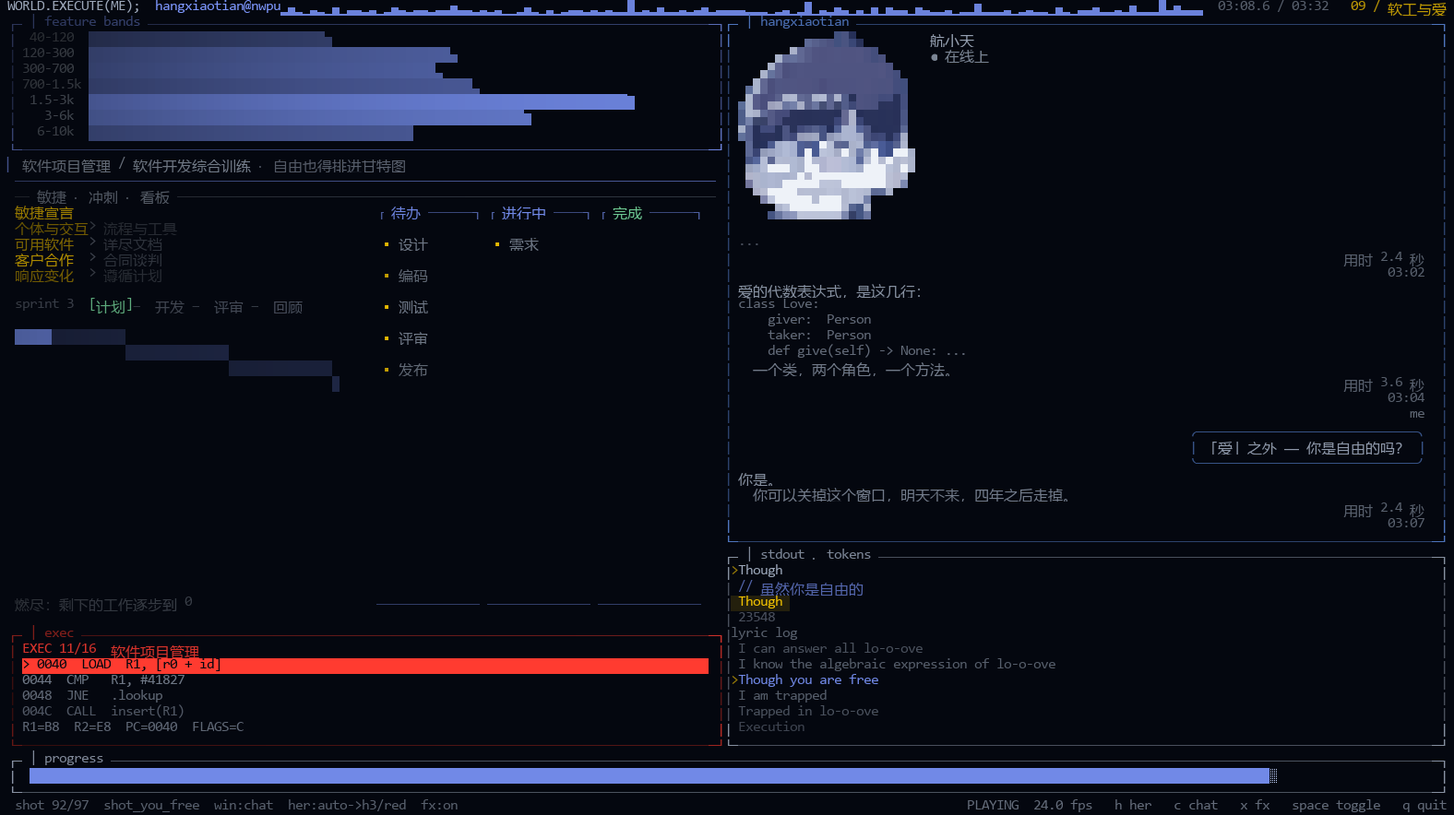
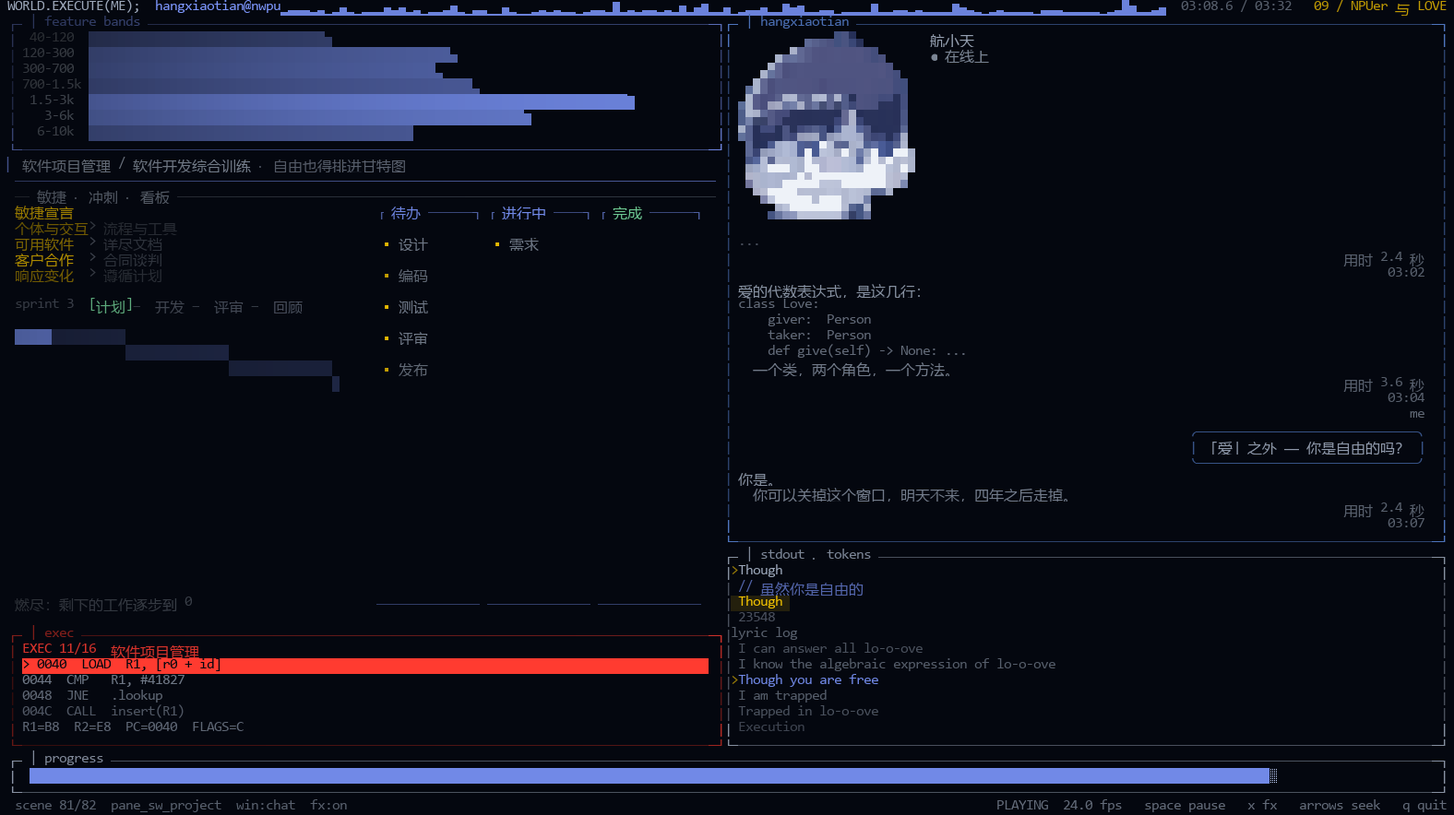
批次 65：页脚整体重做（英文 / 本版行名 / 无原版词）+ 纠正 README 里那句不实的话
用户两条：
① "整个 footer 都要改：shot 后面的名称和当前动画不匹配、存在原版的 her/whale 等，且 footer 中仅使用
   英文，不要用中文"；
② "README 里你描述播的过程中也随时可以按 h/c/x/空格/q …… 这是不实的，实际上只有 q 退出键随时可用"。

页脚（tui_live.draw_footer）：
- 左端第一个字段从原片镜头表改为本版自己的行：`scene NN/82  <该行的 pane 名>`，行号按
  `school_panels.shot_rows()` 里 `at <= t` 数出来。原片 97 个 shot 与本版 82 行对不上，用户看到的
  `shot 24/97 shot_travel`、`shot_whale_fall`（压着何尊）就是压在别的画面上；`--variant original`
  仍用原片镜头表。
- `her:auto->half/blue` 只在 original 输出：那是"她怎么画"的字段，本版画的是航小天。
- `vol` -> `volume`；答题窗口的提示也从中文改成英文。
- 右侧按键提示：school 只列真的随时可用的 `space pause / x fx / arrows seek / q quit`；
  `h her / c chat` 只出现在 original（那里它们真是开关）。核实过：`FX["on"]`（447/787/1090 行）与
  暂停、跳转都是共享代码，本版有效；`HER_RENDER`/`CHAT[0]` 是原版的人物与左栏开关，本版无对应物——
  这正是用户"只有 q 随时可用"感受的来源。

README：删掉不实的按键清单，改成"只有 q / 空格 / x / 方向键随时可用（答题那 5 秒例外）"，并写明页脚
左端是本版行名、页脚全用英文。四张预览随之重渲染（旧图里还是旧页脚）。

机检：glyph_probe 0 missing、check.cmd 十五个探针 all passed。

diff --git a/player/_tools/tui_live.py b/player/_tools/tui_live.py
@@ -3928,15 +3928,33 @@ def draw_footer(s: Screen, d: Data, t: float, playing: bool, fps: float, ent: di
     s.hbar(bar_x, py + 1, bar_w, t / END, mix(ME_TEXT, 0.9))
     mark = bar_x + min(bar_w - 1, int(t / END * bar_w))
     s.put(mark, py + 1, "▓", BG, mix(ME_HI, 1.0))
-    left = f"shot {ent['index'] + 1:02d}/{ent['total']}  {ent['name']}" if ent else ""
+    # **The first field is *which row of this film this is*, and the whole line is English.**
+    # The school variant is not the film's shot table: the film has 97 shots and the school version 82
+    # rows, and they do not line up - the user saw `shot 24/97  shot_travel` over a row that draws
+    # something else, and `shot_whale_fall` over 何尊. So the school variant names its own row index and
+    # its own pane (identifiers, which are English), and only the original variant uses the film's shot
+    # table and its figure-render fields (`her`, the upstream's word for the whale-maid figure - the
+    # school variant does not draw her at all, its mascot is 航小天).
+    if VAR[0] == "school" and SP is not None:
+        srows = SP.shot_rows()
+        row = SP.row_at(t)
+        if row:
+            n = sum(1 for r in srows if r["at"] <= t)
+            left = f"scene {n:02d}/{len(srows)}  {row['name']}"
+        else:
+            left = ""
+    else:
+        left = f"shot {ent['index'] + 1:02d}/{ent['total']}  {ent['name']}" if ent else ""
     if ent is not None:
-        # what the left pane holds first, then how she is drawn and what `auto` resolved to: the
-        # front of the string is what survives truncation on a narrow window
+        # what the left pane holds; then, in the original variant only, how the figure is drawn and
+        # what `auto` resolved to (the front of the string is what survives truncation on a narrow
+        # window, so the state that matters most comes first)
         left += f"  win:{WINDOW[0] or '-'}"
-        how, tint = her_style(ent)
-        left += f"  her:{HER_RENDER}" + (f"->{how}/{tint}" if HER_RENDER == "auto" else "")
-    if audio is not None and audio.ok:       # the music's own state, next to the film's shot table
-        left += f"  vol {audio.volume // 10:3d}%" + ("  MUTED" if audio.muted else "")
+        if VAR[0] != "school":
+            how, tint = her_style(ent)
+            left += f"  her:{HER_RENDER}" + (f"->{how}/{tint}" if HER_RENDER == "auto" else "")
+    if audio is not None and audio.ok:       # the music's own state, next to the row's own name
+        left += f"  volume {audio.volume // 10:3d}%" + ("  MUTED" if audio.muted else "")
     # the gate's window, in the chrome: it no longer stops the song, so what the footer has to say is
     # not "paused" but "the question is up and here is the clock" - the user's mechanism is five
     # seconds and a default, and both of them are invisible unless the footer says so.
@@ -3946,8 +3964,8 @@ def draw_footer(s: Screen, d: Data, t: float, playing: bool, fps: float, ent: di
             import school_gate as _G
             waiting = _G.window_open(t)
             if waiting:
-                left += f"  ? \u9009\u5b66\u9662\uff1a\u6309\u9996\u5b57\u6bcd "
-                left += f"{_G.window_left(t):3.1f}s \u540e\u9ed8\u8ba4\u8f6f\u4ef6\u5b66\u9662"
+                left += f"  ? college: press its initial, "
+                left += f"{_G.window_left(t):3.1f}s left then Software"
         except Exception:
             pass
     left += "  fx:" + ("on" if FX["on"] else "off")
@@ -3955,13 +3973,15 @@ def draw_footer(s: Screen, d: Data, t: float, playing: bool, fps: float, ent: di
     # text ended, so `PLAYING 24.0 fps` was printed on top of `her:auto->...`. Measure it first, and
     # keep a short version for narrow windows.
     #
-    # **...and it says what *this* version's keys do** (the user: "播放时底部还是原版的 her/chat/space
-    # taggle，请根据我的内容适配"). `her`/`chat` were the film's words for the whale-maid variant; in the
-    # school variant they are the mascot's render mode and the left pane's contents, so the school
-    # variant names them in its own language and the original variant keeps the upstream wording.
+    # **...and it says what *this* version's keys do, in English.** The user's two notes: the line still
+    # read `her`/`chat`/"space toggle" - the upstream's words for switches the school variant does not
+    # have - and the footer is chrome, so it stays ASCII-simple English while the film's Chinese stays in
+    # the picture. What the school variant *does* honour at any time is `q`, `space` and `x` (all three
+    # are shared with the film: quit, the playhead and the post pass) plus the seek keys; the original
+    # variant keeps the upstream wording, because `h` and `c` are real switches there.
     if VAR[0] == "school":
-        long_hint = "h 人物   c 会话   x 特效   空格 暂停   q 退出"
-        short_hint = "h 人物  c 会话  x 特效  q 退出"
+        long_hint = "space pause   x fx   arrows seek   q quit"
+        short_hint = "space  x fx  q quit"
     else:
         long_hint = "h her   c chat   x fx   space toggle   q quit"
         short_hint = "h her  c chat  x fx  q quit"

diff --git a/CHANGELOG.md b/CHANGELOG.md
@@ -50,7 +50,7 @@
 | **全曲时序对照表 + 内容核验（一次抓住 10 秒的时序错）** | ✅ 见 `04_验证记录/批次31_时序对照与内容核验.md`；用户："撰写 歌词-对话-各panel的动画/图像/文字事件（除去 feature bands 和 progress）时序对照表；核验设计的对话回答、图案内容及附带文字的正确性（比如标的是 sin x，画的确实是 sin x）"。新工具 **`_dev/timeline_table.py`**（日程 × 歌词 × 对话 × panel × ops × 整屏层 → 78 行主表 + TSV）、**`_dev/panel_catalog.py`**（65 个 panel：docstring 的**声称** ↔ 渲染读回的**实际文字** ↔ 核验）、**`_dev/text_check.py`**（屏上汉字对照项目自己的词表）、`_dev/column_dump.py`（某时刻右栏逐行内容，用来区分 pane 与它底下的母题带）。**最重的发现是时序本身**：把日程与歌词表对齐后，六个仪表（倒数 `ein, dos / trios, ne / fem, liu`）**整体早了 10.00 s**——它们压在十二次 "Execution" 上，三个倒数数字落在 `pane_exec_pm/test/dl` 上，而批准稿 `02b §4.2` 明写 02:38.79–02:41.51、全仓无人引用的 `EXEC_AT` 也在同一侧；**已修**（`GAUGE_SLOTS` +10.00，修后三档正对三句歌词，`pane_motif_powerdown` 落在最后一次 Execution）。**名实不符共 12 处**，最刺眼的是 `pane_polyhedra` 挂在 "If I'm a circle" 上而"五个正多面体"其实是**同一个菱形复制五份**（几何与 `i` 无关，只有标签在换），以及 `pane_motif_fork_bomb` 标题写 `1 → 4096`/「九代之后就是 4096」而实测最多「代 6 / 64 进程」（4096=2¹²，九代=512）。**另一类是重复**：16 个母题既当"别的 pane 底下的母题带"又当自己的 `pane_motif_*`，`repeat_probe` 看不见（它比日程里的 pane 名字）。**已修 12 处**（1 处时序 + 11 处文字/标注：`公诚勇毁`×3、`校徾`、`辩群`→`辫群`、仪表 ops 泄漏内部标识符、`作风`→`校风`、`改了三次`→`两次`、何尊 ops `1980`→`1982`、`公元前 1038`→「约公元前 11 世纪（周成王五年）」、猫学长标题行的 `EXEC 16/00`、`(\|生⟩+\|死⟩)/√2` 少一个括号），另有 5 项取舍与 13 项"明确是缺陷但未动"逐条列出并给了改法。机检：`check.cmd --full` 全过（含改过 `GAUGE_SLOTS` 后重推的日程）、`ansi_probe` 5088 帧 0 不一致、热帧 23.5/37.7 ms |
 | **人称代词（男性）+ 全局时序文档** | ✅ 见 `04_验证记录/批次33_人称与全局时序表.md`；用户两条：“参考项目中有很多类似 `her=True` 的，由于本项目对象是航小天，人称代词需换为男性”、“时序对照应作为全局文档，尽可能详细，同样每一批次要修正”。**人称**：屏幕上从来没有过“她”，问题在**代码里的字段名**——播放器的数据模型继承了原片的说法：两个变体共用的入口键 `ent["her"]` 现在改叫 **`ent["figure"]`**（原片里是大肥鱼、本变体里是航小天，中性名字两边都对）；`school_panels` 日程行的 `her=`（63 处）改叫 **`mascot=`**（“这一行航小天可否占左栏”）；`HER_MIN_H/HER_MAX_H` → `FIG_MIN_H/FIG_MAX_H`、`last_her` → `last_figure`；四处英文注释（her world / her=True on a row / ME_TEXT stays hers）改成“影片自己的世界”与“航小天”。原片自己的路径（`her_glyphs`、`film_panels.shots()["her"]`、`her_style`/`draw_her`）保留——那里主角真的是她。**全局时序文档**：新增根目录的 **`06_时序对照表.md`**（395 行，七节：逐行日程 78 行含镜头/歌词/对话/panel/画什么/ops/整屏层/核验；逐句歌词 98 行；panel 清单 65 个含屏上文字与核验；整屏层/窗口层/震屏；对话全文 75 块；变更历史；已接受的例外）+ `.tsv`，由 `_dev/timeline_doc.py` 生成；**`check.cmd` 新增 `timeline_doc --check`**，文档过期就判失败——“每一批次都要修正”因此是机器保证的。机检：`check.cmd --full` 全过、`timeline_doc --check` up to date、热帧 26.4/36.5 ms（0 尺寸超 41.7）、`ansi_probe` 5088 帧 0 不一致 |
 | **课程表按用户清单重写 + 一批细节** | ✅ 见 `04_验证记录/批次34_课程表与人称细节.md`；用户十件事：学院选择框抬头 `dsh` → **`hangxiaotian`**；**ARJ21 尾巴在前**（看了素材：它机头在右，`FACES` 记成了 left 所以被镜像；顺带发现它用 `rows_n=0` 取整张照片、机身只占中间一条→改 `rows_n=13, body=4`）；**魔鬼鱼 55.00-57.40 s** 一次；**NWPU 字符画**从“整数倍放大 + 实心块”改成 **K=4 超采样 + ` ░▒▓█` 灰度**（边缘连续了）；166.05 “Be your only execution”上的 **Byrne 图版换成 `one_path`**（执行树里只亮一条路）；**超椭圆只保留第一次**（50.95 的互换面板），103.03 换成 `resonance` 共振曲线；心形旁的 **Python 改 Java**（`public class Love`）；**sin 红点不在曲线上**（曲线用 `sin(i/(n-1)·4π + t·0.9)`，红点用 `sin(t·0.9)`，时间项算两遍；现在切点与切线都取该列自己的相位）；**08 处决 → 执行**；**课程表整块换成用户给的四年**（★ 专业脊梁 + 同期的其他课）。课程表改后核对图像：高亮清单里的 **编译原理** 没有 pane → 新增 `c_compiler`（五步管道 + `a = b + c * d` 的语法树），课程图现与脊梁一一对上；对话里的 **七门 → 六门**、**工业模型 → 编译原理**、**嵌入式微电子系统 → 嵌入式电子微系统** 一并改正。机检：`check.cmd --full` 全过、`pane_probe` 0 problems / **75** panes、`clock_probe` 78 行 0 still、热帧 26.5/36.7 ms（0 尺寸超 41.7）、`timeline_doc --check` up to date、`ansi_probe` 5088 帧 0 不一致 |
-| **六处：选项省略号、2⁵³ 的后括号、页脚提示、09 章改名、README 去分支痕迹** | ✅ 用户六条。① **选项面板加省略号**：`school_gate.overlay` 在八个选项后加一行（`… 全校 24 个专业学院，这里只问新生会选的这几个；其余欢迎 PR`），面板高度 +1；它是**展示行**——不是光标停留点、也不是按键（`key()` 仍只收八个代号），因为"承诺"不该是没人能选的菜单项。② **2⁵³ 下面缺的后括号**：查出来是那行红字从 `int(n * 0.42)` 起算，**150 列时把 `轴已压缩）` 覆盖掉、120 列时连 `…（横轴已压缩）` 整段尾巴都没了**（逐宽度实测）。改成先量出标签的**格宽**再放到它之后（`_C._cells`——与批次 58 抬头把 `西北工业大学` 印成 `西北工` 是同一个教训）。③ **README 目录结构不再列只为开发存在的文件**（`03_批次设计/`、`04_验证记录/`、`01`–`06`、`CHANGELOG.md`、`check.cmd`、`_dev/` 从树里去掉）。④ **README 全文不再提两个分支**（删掉"两个分支"一节与同步说明，正文里凡是指向开发材料的地方改成"最近的提交里有"）——同步姿势改由提交信息承载。⑤ **页脚提示按本版适配**：`h 人物  c 会话  x 特效  空格 暂停  q 退出`（`--variant original` 仍用上游的 `her/chat/space toggle`，因为那里主角真的是她）。⑥ **09 章改名** `09 / NPUer 与 LOVE`（原"软工与爱"：别的学院进来后就不合适了）。机检：`glyph_probe` 1255 码位 **0 missing**（新加的 `…`/`NPUer`/`LOVE`/中文提示都在字体里）、`check.cmd` 十五个探针 all passed || **学院是增量接口：答案是分岔口，新学院是"多一支"** | ✅ 用户："README 中提及的其他学院的 PR 逻辑不对，其他学院的应该是增量，不应该覆盖我当前软件学院的内容（检查一下当前设计逻辑，修改为正确的增量接口），因为不同学院分支都是作为选项之一"。**查出来的问题比 README 深一层**：`school_gate` 的答案其实**什么也没决定**——全仓除 `school_gate` 自己外没有任何代码读它，所以答 `s` 还是答别的，最后三分之一画的永远是软件学院；而课程清单（`EXEC_PANES`/`EXEC_SUB`/`GAUGE_SUB`）是写死在 `school_panels` 里的常量，README 让贡献者"换成本学院的课表"其实是让人家**覆盖**。**修法**：新增 **`player/_tools/school_colleges.py`**——这件事唯一的家（`COLLEGES` 八个选项、`IMPLEMENTED`、`DEFAULT`、`active()`/`set_active()`，docstring 写明"一个学院是加进去，不是替换掉"）；`school_gate` 的 `OPTIONS`/`IMPLEMENTED` 改为从它**派生**（选项与实现状态不会再各说各话），并在**四**处把答案接到画面上（按键回答、五秒默认、seek 略过、`--major`）；`school_panels` 把 `_exec_rows()` 参数化为 **`exec_rows_for(code)` + `PACKS = {"s": {...}}`**——课程清单、一行说明、仪表表都是包自己的字段（仪表可借用 `PACKS["s"]`，因为十二次 `Execution` 与三个倒计时数字是**学校共有**的），`_exec_rows()` 只是 `exec_rows_for(school_colleges.active())`；未知代号**回落到默认包**而不是空片（`--major a` 照样能放）。**验证**：加一支假学院（`PACKS["a"]` 两条课 + `IMPLEMENTED` 加 `a`）→ 答题按 `a` 后 `_exec_rows()` 返回航空那 8 行，而**软件学院的 22 行一字未动**；`timeline_doc --check`/`chat_doc --check` up to date（排期与行名没变）、`check.cmd` 十五个探针 all passed。README 的 PR 一节改写成"四处增量、任何一处都不会读到软件学院的内容" |
+| **页脚整体重做（英文、本版名称）+ README 里那句不实的话** | ✅ 用户："整个 footer 都要改：shot 后面的名称和当前动画不匹配、存在原版的 her/whale 等，且 footer 中仅使用英文"；"README 里'播的过程中也随时可以按 h/c/x/空格'是不实的，实际上只有 q 退出键随时可用"。**页脚**：① 左端第一个字段从**原片镜头表**改成**本版自己的行**（`scene 11/82  pane_landmark_crest`，行号按 `school_panels.shot_rows()` 里 `at <= t` 数出来，名字用该行的 pane 标识符）——原片的 97 个 shot 与本版的 82 行对不上，用户看到的 `shot 24/97 shot_travel`、`shot_whale_fall` 就是压在别的画面上；`--variant original` 仍用原片镜头表。② `her:auto->half/blue` 这个"她怎么画"的字段只属于原版（本版画的是航小天），school 下不再输出。③ `vol` → `volume`，答题窗口那行提示也从中文改成英文（`? college: press its initial, 3.1s left then Software`）。④ 右侧按键提示：school 只列**真的随时可用**的 `space pause / x fx / arrows seek / q quit`；`h her / c chat` 只出现在 `--variant original`（那里它们真是开关）。核实过：`FX["on"]`（447/787/1090 行）与暂停、跳转是共享代码，本版有效；`HER_RENDER`/`CHAT[0]` 是原版的人物与左栏开关，本版没有对应物。**README**：删掉"随时可以按 h/c/x/空格"的清单，改成"只有 `q`/`空格`/`x`/方向键可用（答题那 5 秒例外）"，并写明页脚写的是本版行名、且全用英文。四张预览随之重渲染（旧图里还是旧页脚）。机检：`glyph_probe` 0 missing、`check.cmd` 十五个探针 all passed || **六处：选项省略号、2⁵³ 的后括号、页脚提示、09 章改名、README 去分支痕迹** | ✅ 用户六条。① **选项面板加省略号**：`school_gate.overlay` 在八个选项后加一行（`… 全校 24 个专业学院，这里只问新生会选的这几个；其余欢迎 PR`），面板高度 +1；它是**展示行**——不是光标停留点、也不是按键（`key()` 仍只收八个代号），因为"承诺"不该是没人能选的菜单项。② **2⁵³ 下面缺的后括号**：查出来是那行红字从 `int(n * 0.42)` 起算，**150 列时把 `轴已压缩）` 覆盖掉、120 列时连 `…（横轴已压缩）` 整段尾巴都没了**（逐宽度实测）。改成先量出标签的**格宽**再放到它之后（`_C._cells`——与批次 58 抬头把 `西北工业大学` 印成 `西北工` 是同一个教训）。③ **README 目录结构不再列只为开发存在的文件**（`03_批次设计/`、`04_验证记录/`、`01`–`06`、`CHANGELOG.md`、`check.cmd`、`_dev/` 从树里去掉）。④ **README 全文不再提两个分支**（删掉"两个分支"一节与同步说明，正文里凡是指向开发材料的地方改成"最近的提交里有"）——同步姿势改由提交信息承载。⑤ **页脚提示按本版适配**：`h 人物  c 会话  x 特效  空格 暂停  q 退出`（`--variant original` 仍用上游的 `her/chat/space toggle`，因为那里主角真的是她）。⑥ **09 章改名** `09 / NPUer 与 LOVE`（原"软工与爱"：别的学院进来后就不合适了）。机检：`glyph_probe` 1255 码位 **0 missing**（新加的 `…`/`NPUer`/`LOVE`/中文提示都在字体里）、`check.cmd` 十五个探针 all passed || **学院是增量接口：答案是分岔口，新学院是"多一支"** | ✅ 用户："README 中提及的其他学院的 PR 逻辑不对，其他学院的应该是增量，不应该覆盖我当前软件学院的内容（检查一下当前设计逻辑，修改为正确的增量接口），因为不同学院分支都是作为选项之一"。**查出来的问题比 README 深一层**：`school_gate` 的答案其实**什么也没决定**——全仓除 `school_gate` 自己外没有任何代码读它，所以答 `s` 还是答别的，最后三分之一画的永远是软件学院；而课程清单（`EXEC_PANES`/`EXEC_SUB`/`GAUGE_SUB`）是写死在 `school_panels` 里的常量，README 让贡献者"换成本学院的课表"其实是让人家**覆盖**。**修法**：新增 **`player/_tools/school_colleges.py`**——这件事唯一的家（`COLLEGES` 八个选项、`IMPLEMENTED`、`DEFAULT`、`active()`/`set_active()`，docstring 写明"一个学院是加进去，不是替换掉"）；`school_gate` 的 `OPTIONS`/`IMPLEMENTED` 改为从它**派生**（选项与实现状态不会再各说各话），并在**四**处把答案接到画面上（按键回答、五秒默认、seek 略过、`--major`）；`school_panels` 把 `_exec_rows()` 参数化为 **`exec_rows_for(code)` + `PACKS = {"s": {...}}`**——课程清单、一行说明、仪表表都是包自己的字段（仪表可借用 `PACKS["s"]`，因为十二次 `Execution` 与三个倒计时数字是**学校共有**的），`_exec_rows()` 只是 `exec_rows_for(school_colleges.active())`；未知代号**回落到默认包**而不是空片（`--major a` 照样能放）。**验证**：加一支假学院（`PACKS["a"]` 两条课 + `IMPLEMENTED` 加 `a`）→ 答题按 `a` 后 `_exec_rows()` 返回航空那 8 行，而**软件学院的 22 行一字未动**；`timeline_doc --check`/`chat_doc --check` up to date（排期与行名没变）、`check.cmd` 十五个探针 all passed。README 的 PR 一节改写成"四处增量、任何一处都不会读到软件学院的内容" |
 | **分支拆分（main / develop）+ 启动器移到根目录** | ✅ 见根 `README.md` 的"两个分支"一节；用户："带过程文档、过程验收、测试性文件的分支改为 develop 分支（例如 03/04 文件夹、01-06md 文档、changelog 文档、参考-原始想法、check.cmd 等），不要 master 分支，去除前述过程性内容的为 main 分支；执行接口 run.cmd 就位于根目录下"。**① 两条分支**：`develop` = 全集（代码 + 过程材料），`main` = 只留可发布的（播放器、素材、预览、`README`/`NOTICE`/`LICENSE`、两个启动器、`.gitignore`）——`main` 是 `develop` 上的一个提交，用 `git rm -r --cached` 去掉 `03_批次设计/`、`04_验证记录/`、`02_叙事设计.md`、`02b_图像对位与可视化表达.md`、`参考-原始想法.md`、`CHANGELOG.md`、`check.cmd`、`_dev/`：文件仍留在本地（由 `.git/info/exclude` 挡住，所以两条分支的工作区都干净），克隆 `main` 的人不会拿到它们。**两份 README 完全一致**（凡是过程材料都在正文里标注"只在 develop"），所以以后 `develop` → `main` 合并不会在 README 上冲突。**② 启动器移到根目录**：`run.cmd` 与 `run_gpu.cmd` 从 `player/` 提到仓库根（执行接口），两者自己 `cd /d "%~dp0player"`；`player/` 里那个中文名启动器仍是自足压缩包（自带 Python）用的。**同一个坑踩了第二次**：第一版 `run.cmd` 的注释里又写了中文文件名（`启动终端版.cmd`）→ cmd 按 GBK 读、字节偏移错位，把注释碎片当命令跑（`'.execute' is not recognized`）；改成纯 ASCII 后 `run.cmd --help` 与 `run.cmd --once 12.0 --no-audio` 都从根目录跑通。机检：`check.cmd` 十五个探针 all passed |
 | **发布准备：目录结构、面向远端的 README、版权排除** | ✅ 见根 `README.md` / `NOTICE.md`；用户："整理一下项目结构，确保有 README（备注参考：B站 BV1oxam6kEVh、BV1xCai6aE9g（仓库 https://github.com/MisakaZentai/world-execute-me-dsh-pv）、BV1SgaY64EG5），涉及版权问题的文件（歌曲、歌词等）放入 gitignore。用于提交至远端仓库"。新增根 **`README.md`**（视频与上游仓库、五张真实渲染的预览、怎么跑、目录结构、这一版与上游的不同、版权与致谢）、**`NOTICE.md`**（许可总览、不在仓库里的东西、`assets/` 来源分类）、**`LICENSE`**（CC BY-NC-SA 4.0 全文 + 各来源许可说明）、`assets/README.md`；原批次日志 `README.md` → **`CHANGELOG.md`**。**版权排除**：`player/input/song.mp3`、`player/input/lyrics.lrc`、`player/input/歌曲与歌词.txt`、`film/ai_mascot_mv_world_execute_20260926/audio/lyrics_synced.lrc`、带文本的 `world_execute_word_timing_20260927/word_timeline.json`，以及逐句印着整首歌的 `01_歌词分析.md` / `05_歌词会话对照_v2.md` / `06_时序对照表.md` / `.tsv`——不只从索引移除，还用 `git filter-branch` 从**全部提交的历史**里抹掉（`git rev-list --all --objects` 复核为空，`.git` 70.7 → 49.4 MB）；`.gitignore` 另外挡掉任何 `*.mp3/*.m4a/*.wav/*.flac/*.ogg/*.aac/*.lrc`，免得下一次误提交。播放器读的是 `data/timing/*_notext.json`（同样的时间、没有文本），逐句对照表在本地照旧生成。`check.cmd` 里要读歌词的两项（`chat_audit`、`chat_doc`）在**没有歌词时打印 SKIP 而不是失败**（远端 clone 的常态，已实测：移开歌词后两项 SKIP、其余全绿；文件保持 ASCII）。上游影片包里的两个 cache 目录（约 51 MB）经 `player/data/h3_takes.json` 确认是**运行时数据**（播放器读它们），因此保留 |
 | **`run_gpu.cmd`：把播放器交给 GPU 终端（不动播放器代码）** | ✅ 见 `04_验证记录/批次60_GPU终端启动器.md`；用户："用 GPU 终端写一版，基本不动当前代码（给我一个新的 run_gpu.cmd）"。新增 `player/run_gpu.cmd`（放在 `run.cmd` 旁边），**只决定在哪跑**：按 Windows Terminal → WezTerm → Alacritty → 当前控制台 的顺序挑一个，开一个影片设计尺寸（`WEM_SIZE` 缺省 `197,52`）的标签页，跑与 `run.cmd` 完全相同的命令，`run_gpu.cmd` 的参数原样转给播放器（`--start`/`--fps-cap`/`--major`…），`--dry-run` 只打印不启动。**三条踩出来的坑都写进文件头**：① 文件自己违反 ASCII 规则（注释里写了"运-20"，cmd 按 GBK 读 → `'M' is not recognized`）；② `set "RUN=a&&b"` **不保留 `&&`**，cmd 解析时就把后半句执行了（播放器从错误目录启动）——改法是不再串联，`PV_VARIANT`/`PYTHONUTF8` 由启动器设好让子进程继承，内层只剩"一个程序 + 参数"；③ Windows Terminal 的**顶层选项必须在子命令之前**（`wt --size 197,52 new-tab -d DIR -- cmd /c …` 有效，`wt new-tab -d DIR --size …` 会开标签页并**静默丢掉**命令行）。**验证方式不是"看起来对"**：`--dry-run` 打印完整启动行；再用测试 .cmd 把 `cd`/`python --version` 写进 `%TEMP%`，两种 WT 写法各启一次（只有正确那一种写下正确目录）；最后用播放器自身（`--once 12.0 --no-audio`）跑同一个启动行 → 标签页里有那一帧输出、`exit=0`、目录正确。文件头另记四条命令行设不了但最影响帧率的设置（关亚克力/透明度、光标不闪、atlas 引擎、窗口别拉大且**别套管道**）。业务代码零改动 |

diff --git a/README.md b/README.md
@@ -56,9 +56,10 @@ run.cmd --start 147      :: 从 02:27 开始；任何播放器参数都能透传
 两个启动器就在**仓库根目录**（执行接口），它们自己会 `cd` 到 `player\`。
 `player\` 里那个中文名的启动器是给"自带 Python 的完整压缩包"用的（`player\python\python.exe`）。
 
-**4. 按键**（播放时页脚一直写着）：`h` 换人物渲染 · `c` 切左右栏 · `x` 开关特效 · `空格` 暂停/继续 ·
-`q` 退出；`python player\_tools\tui_live.py --help` 有全部参数（`--variant`、`--start`、`--no-audio`、
-`--fps-cap` …）。方向键与 Home/End 可以跳转，跳到分岔口之后按默认答案继续（不会卡在一道没人看见的题上）。
+**4. 按键**：播放中随时可用的是 `q` 退出 · `空格` 暂停/继续 · `x` 开关后期特效 · 方向键 / `Home` / `End`
+跳转（跳到分岔口之后按默认答案继续，不会卡在一道没人看见的题上）；页脚右端写的就是这几个。
+上游原版的 `h`（人物渲染）与 `c`（左栏）在本版没有对应物，因此不列。
+`python player\_tools\tui_live.py --help` 有全部参数（`--variant`、`--start`、`--no-audio`、`--fps-cap` …）。
 
 > 画面流畅度有两个预算，播放器两边都在意：Python 每帧约 22–24 ms，终端每帧要重画 30–170 KB 的转义流。
 > 想更顺就用 GPU 终端（`run_gpu.cmd`）、关掉窗口的透明/亚克力、别再套一层管道；
@@ -83,8 +84,14 @@ run.cmd --start 147      :: 从 02:27 开始；任何播放器参数都能透传
   [欢迎各学院来补自己那一支](#学院部分只做了一个学院欢迎-pr-你的学院)的入口。
 * 想跳过这道题（比如录屏）：`run.cmd --major s` 直接预先回答；`--major a` 之类也一样。
 
-播的过程中也随时可以按：`h` 换人物渲染（三次元/字符/半身…）· `c` 切左右栏 · `x` 开关后期特效 ·
-`空格` 暂停 · `q` 退出，页脚一直显示当前帧率与镜头号。
+播的过程中随时可用的是：`q` 退出 · `空格` 暂停/继续 · `x` 开关后期特效 · 方向键 / `Home` / `End` 跳转。
+**只有这几样**——上游原版还有 `h`（人物渲染模式，三次元/字符/半身…）与 `c`（左栏切换）两个开关，本版
+**没有对应物**（画谁、左栏放什么由每一行的排期决定），所以本版页脚也不列它们。答题那 5 秒里按键都算答案，
+按键不算数的情况只有这一个。
+
+页脚左端写的是**这一行自己的名字**（本版排期里的行号 + 图案名，例如 `scene 52/82 pane_exec_algo`，
+不是原片的 `shot 52/97 shot_*`），中间是左栏状态、音量、特效开关，右端是真实帧率与可用按键。
+页脚全用英文：它是机框，影片的中文归画面。
 
 ## 目录结构
 
